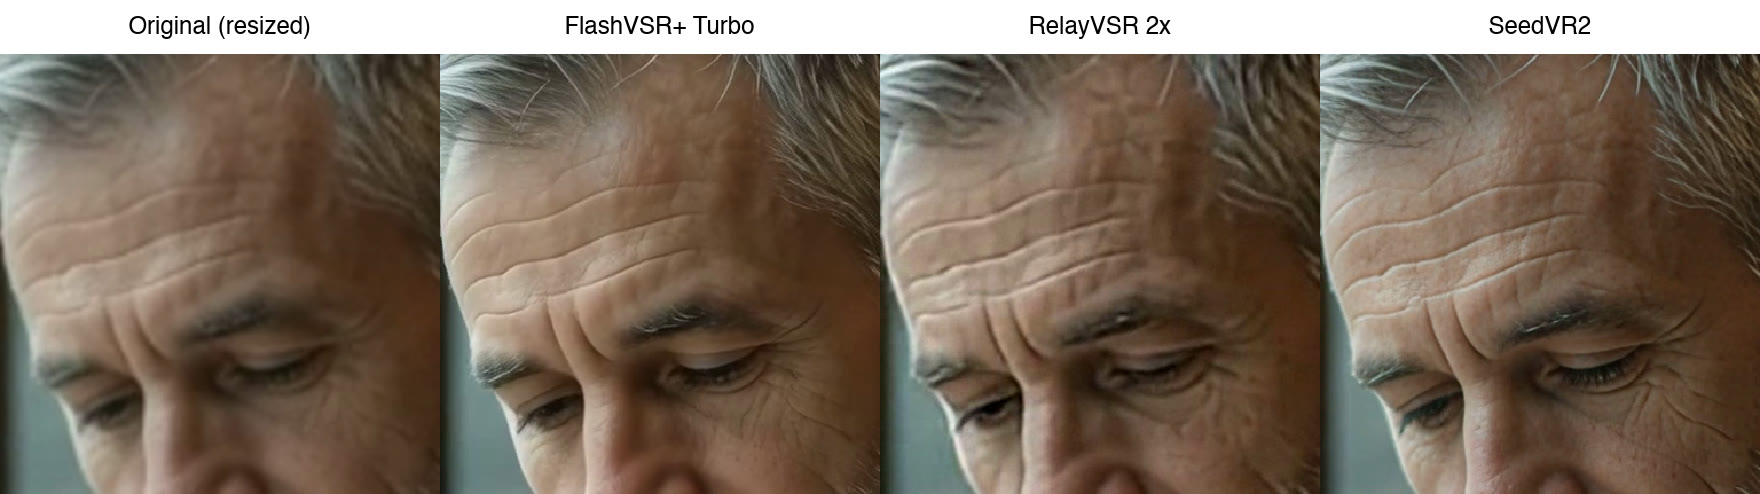
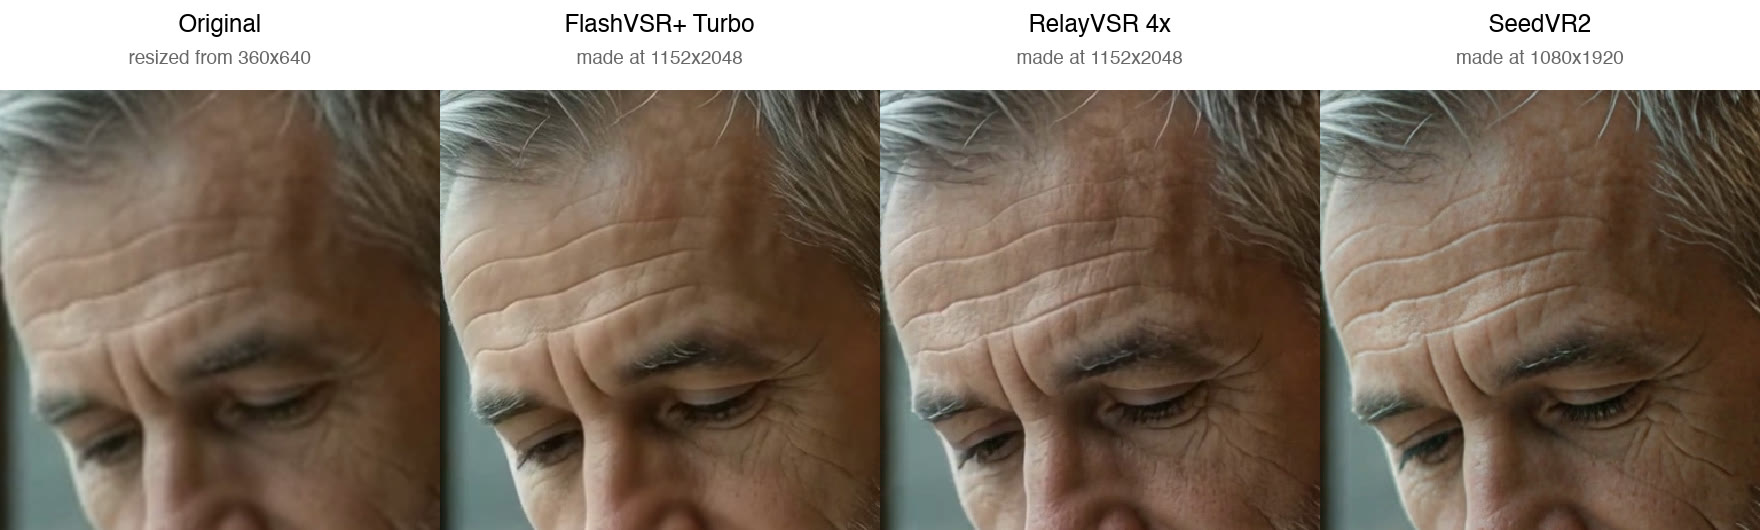
Close-up compares the three at the same output size: RelayVSR's 4x model at 3.2x

diff --git a/upscale-video/README.md b/upscale-video/README.md
@@ -12,9 +12,9 @@ Each notebook comes with a 6-second sample clip, so you can press Run before try
 
 ## Quality
 
-![The same frame, close up: the original resized the ordinary way, then FlashVSR+ Turbo, RelayVSR 2x and SeedVR2](close-up.jpg)
+![The same frame, close up: the original resized the ordinary way, then FlashVSR+ Turbo, RelayVSR 4x and SeedVR2](close-up.jpg)
 
-The sample clip (360x640) upscaled to 1152x2048 (FlashVSR+), 720x1280 (RelayVSR 2x) and 1080x1920 (SeedVR2), the same frame cropped and enlarged. Every notebook ends with this comparison for your own video.
+The sample clip (360x640) upscaled to 1152x2048 by FlashVSR+ Turbo and by RelayVSR's 4x model run at 3.2x, and to 1080x1920 by SeedVR2: the same frame, cropped and enlarged. RelayVSR's 2x model, the notebook's default, makes 720x1280 from this clip, so beside the others it looks softer. Every notebook ends with this comparison for your own video.
 
 ## Time and cost
 
